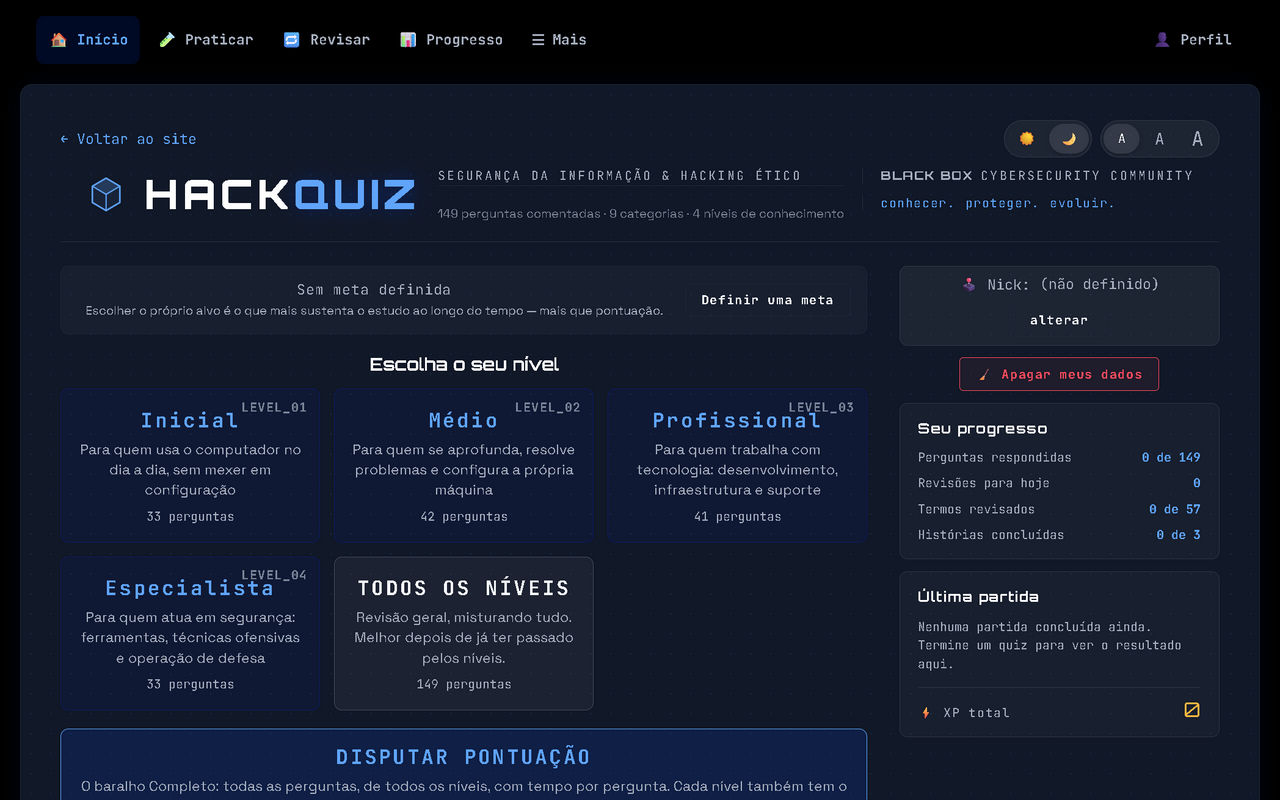
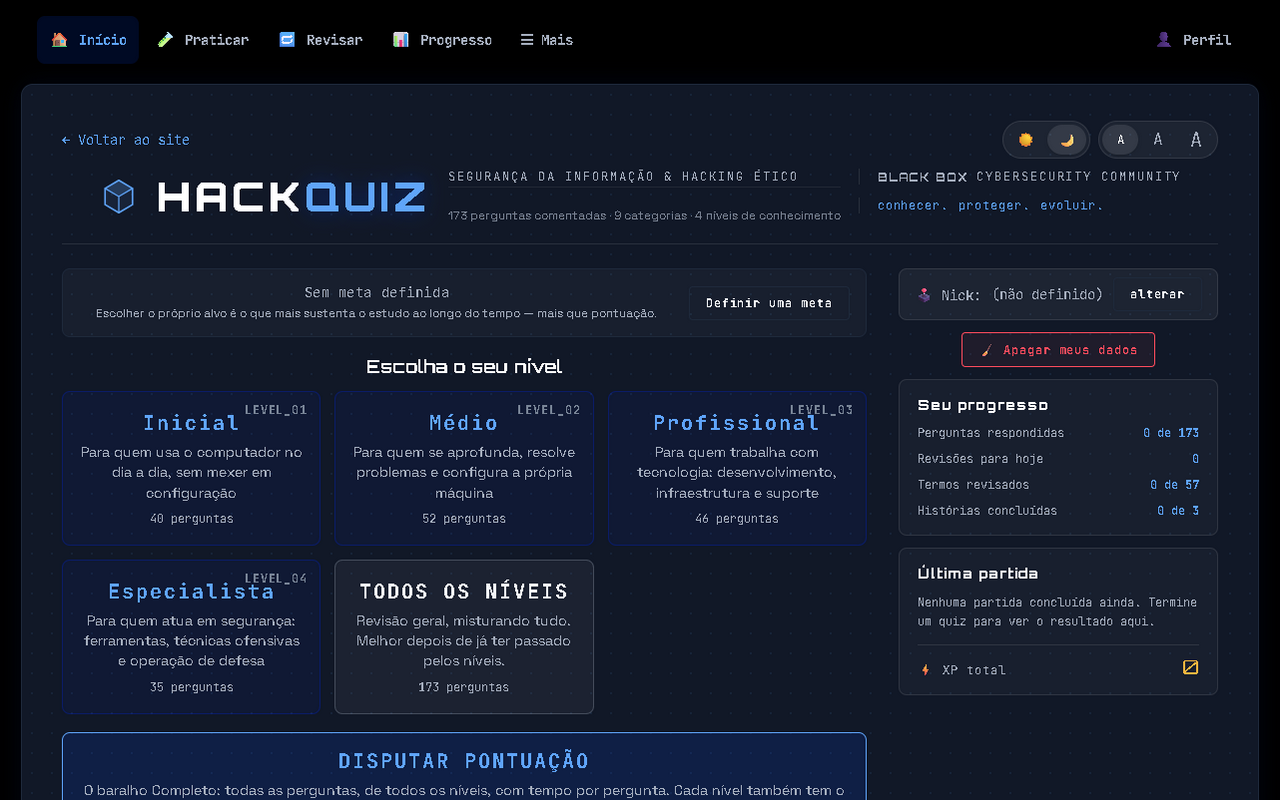
Vitrine: HackQuiz primeiro e com foco em cibersegurança, imagens atualizadas
HackQuiz abre a página, com o que ele ensina e a segurança do próprio
app; depois RPG Espiritual (prints da versão atual) e Sombraluz
(menu e partida capturados do jogo). Runas & Hordas vai para outros
projetos. A imagem antiga do HackQuiz mostrava 149 perguntas.

diff --git a/README.md b/README.md
@@ -1,18 +1,18 @@
 <h1 align="center">Olá, eu sou o O-Azevedo 👋</h1>
 
 <p align="center">
-  <b>Desenvolvedor de jogos e aplicações web</b> · cibersegurança · engenharia assistida por IA<br>
-  <sub>Game & web developer building shipped, tested projects with AI-assisted engineering.</sub>
+  <b>Cibersegurança e desenvolvimento web</b> · jogos · engenharia assistida por IA<br>
+  <sub>Security-minded web & game developer shipping tested, versioned projects with AI-assisted engineering.</sub>
 </p>
 
 <p align="center">
   <img alt="JavaScript" src="https://img.shields.io/badge/JavaScript-F7DF1E?style=flat-square&logo=javascript&logoColor=000">
   <img alt="TypeScript" src="https://img.shields.io/badge/TypeScript-3178C6?style=flat-square&logo=typescript&logoColor=fff">
+  <img alt="Firebase" src="https://img.shields.io/badge/Firebase-DD2C00?style=flat-square&logo=firebase&logoColor=fff">
   <img alt="Next.js" src="https://img.shields.io/badge/Next.js-000?style=flat-square&logo=nextdotjs&logoColor=fff">
   <img alt="Godot" src="https://img.shields.io/badge/Godot_4-478CBF?style=flat-square&logo=godotengine&logoColor=fff">
   <img alt="Unity" src="https://img.shields.io/badge/Unity_6-000?style=flat-square&logo=unity&logoColor=fff">
   <img alt="C#" src="https://img.shields.io/badge/C%23-512BD4?style=flat-square&logo=dotnet&logoColor=fff">
-  <img alt="Firebase" src="https://img.shields.io/badge/Firebase-DD2C00?style=flat-square&logo=firebase&logoColor=fff">
   <img alt="Electron" src="https://img.shields.io/badge/Electron-47848F?style=flat-square&logo=electron&logoColor=fff">
   <img alt="Vercel" src="https://img.shields.io/badge/Vercel-000?style=flat-square&logo=vercel&logoColor=fff">
   <img alt="Claude Code" src="https://img.shields.io/badge/Claude_Code-D97757?style=flat-square&logo=anthropic&logoColor=fff">
@@ -20,73 +20,104 @@
 
 ---
 
-Construo projetos **do começo ao fim**: código, testes, publicação e versão.
-Tudo o que está abaixo roda de verdade, com link para abrir agora, e cada
-lançamento sai com tag, changelog e arquivos com a versão no nome.
+Construo projetos **do começo ao fim**: código, testes, segurança, publicação
+e versão. Tudo o que está abaixo roda de verdade, com link para abrir agora.
 
 > 🔒 Os repositórios são privados. Os projetos estão publicados nos links
 > abaixo, e o código pode ser mostrado sob solicitação, numa entrevista ou
 > avaliação técnica.
 
-## 🚀 Projetos em destaque
+## 🛡 HackQuiz — aprender cibersegurança, em português
 
-### 🛡 HackQuiz — aprender cibersegurança, em português
 **[▶ Abrir o app](https://hackquiz-blackbox.vercel.app)** · HTML/CSS/JS puro · Firebase · Electron · Vercel
 
-<a href="https://hackquiz-blackbox.vercel.app"><img src="img/hackquiz.png" alt="Tela inicial do HackQuiz: os quatro níveis de conhecimento e o painel de progresso" width="100%"></a>
+<a href="https://hackquiz-blackbox.vercel.app"><img src="img/hackquiz.png" alt="Tela inicial do HackQuiz: os quatro níveis de conhecimento, de Inicial a Especialista, e o painel de progresso" width="100%"></a>
 
-Plataforma de estudo com **173 perguntas em 9 matérias**, cada uma com uma
-explicação pesquisada e fontes citadas, mais 30 exercícios práticos (nmap,
-grep, sub-rede, permissões Linux, TLS…) com números gerados para não decorar.
+Plataforma de estudo de segurança da informação: **173 perguntas em 9 matérias**,
+cada uma com uma explicação pesquisada e fontes oficiais citadas, **30 exercícios
+práticos** e um vocabulário de 57 termos.
 
-- **Medição de proficiência** que combina acerto, nível cognitivo e retenção, e decide a ordem do estudo; **repetição espaçada** (Leitner).
-- **Segurança levada a sério:** as regras do Firestore são a única barreira (não há backend), e são testadas com **133 ataques no emulador**; CSP sem `unsafe-inline` e cabeçalhos de segurança na Vercel.
-- **10 suítes de teste** num runner próprio, auditoria de **contraste WCAG AA** e de acessibilidade por teclado, e um auditor que reprova a documentação quando ela diverge do código.
-- Sem build step e sem framework: abre com duplo-clique e funciona offline.
+**O que ele ensina**
+
+| Área | Exemplos |
+|---|---|
+| Red Team e Blue Team | cadeia de ataque, engenharia social, detecção, resposta a incidentes |
+| Redes | sub-rede, ARP, MITM, DoS, Wi-Fi (WPA2, Evil Twin) |
+| Criptografia | hash, assinatura digital, certificados TLS, ponta a ponta |
+| Forense, GRC e Direito Digital | cadeia de custódia, ISO 31000, matriz de risco, LGPD e escopo de pentest |
+| Linux e Windows | `/etc/passwd`, SUID, crontab, `ps`, `ss`, tarefas agendadas |
+
+**Exercícios sobre artefatos reais, não decoreba:** ler a saída do `nmap`, achar
+o IOC num log com `grep`, auditar os `Set-Cookie` de um login, achar a conta com
+UID 0 que não se chama `root`. Os números mudam a cada tentativa, e cada etapa é
+verificada.
+
+<a href="https://hackquiz-blackbox.vercel.app"><img src="img/hackquiz-termo.png" alt="Verbete Phishing aberto: explicação em linguagem comum, o que é, na prática, onde as pessoas se confundem e as fontes da CISA e da FTC" width="100%"></a>
+
+**A segurança do próprio app**
+
+- **Sem backend:** as regras do Firestore são a única barreira, e uma suíte de **133 ataques no emulador** prova os dois lados, com todo ataque negado e todo uso legítimo aceito.
+- Achei e corrigi falhas reais: um **XSS armazenado** e uma **injeção de código por U+2028** num gerador de trechos (o caractere invisível fazia texto da comunidade virar código).
+- **CSP sem `unsafe-inline`**, cabeçalhos anti-clickjacking e HSTS, e a janela desktop que não navega para fora do app.
+
+**Engenharia:** 10 suítes de teste num runner próprio, auditoria de **contraste
+WCAG AA** e de acessibilidade por teclado, CI em todo pull request, e um auditor
+que reprova a documentação quando ela diverge do código.
 
 ---
 
-### 🌀 RPG Espiritual — a vida inteira, e o que vem depois
+## 🌀 RPG Espiritual — a vida inteira, e o que vem depois
+
 **[▶ Jogar no navegador](https://rpg-espiritual.vercel.app)** · Godot 4 · GDScript · instalador para Windows
 
-<a href="https://rpg-espiritual.vercel.app"><img src="img/rpg-mapa.png" alt="RPG Espiritual: personagem na cidade em pixel art, com a ficha de atributos e o diário de acontecimentos" width="100%"></a>
+<a href="https://rpg-espiritual.vercel.app"><img src="img/rpg-cidade.png" alt="RPG Espiritual: o personagem na cidade em pixel art, com a ficha de atributos, o diário de acontecimentos e as abas de ação" width="100%"></a>
 
 RPG 2D em pixel art no estilo BitLife: você vive meio ano por vez, estuda,
 trabalha, forma família e escolhe um caminho espiritual; depois da morte o jogo
 continua no plano espiritual, até reencarnar. Instalador próprio (Inno Setup),
 exportação para web e releases versionadas.
 
----
-
-### ⚔ Sombraluz: Horda Arcana · 🪓 Runas & Hordas
-**[▶ Jogar Sombraluz](https://sombraluz.vercel.app)** · **[▶ Jogar Runas & Hordas](https://runas-e-hordas.vercel.app)** · HTML5 Canvas · Capacitor · Electron
-
-Dois survivor-likes para celular e navegador: você só move o personagem, as
-armas atacam sozinhas, e a cada nível escolhe uma carta. Entre as partidas há
-classes, equipamentos com raridade, missões e loja.
-
-- JavaScript puro, sem engine; o mesmo código vira **site, APK Android e instalador Windows**.
-- Lógica do jogo coberta por testes (26 e 66) e uma **simulação com bot** para testar o balanceamento em velocidade acelerada.
-- Pipeline de release no GitHub Actions: cada tag publica o APK, o `.exe` e o build web.
+<a href="https://rpg-espiritual.vercel.app"><img src="img/rpg-mapa.png" alt="Mapa completo da cidade do RPG Espiritual, com casas, templos, cemitério, praça e praia" width="100%"></a>
 
 ---
 
-### 🔧 Em desenvolvimento
+## ⚔ Sombraluz: Horda Arcana
+
+**[▶ Jogar no navegador](https://sombraluz.vercel.app)** · HTML5 Canvas · JavaScript puro · Capacitor · Electron
+
+<p align="center">
+  <a href="https://sombraluz.vercel.app"><img src="img/sombraluz-menu.png" alt="Sombraluz: menu com o personagem Peregrino, rank, moedas e as abas de jogo" width="38%"></a>
+  &nbsp;&nbsp;
+  <a href="https://sombraluz.vercel.app"><img src="img/sombraluz-jogo.png" alt="Sombraluz: partida aos 1:32, nível 4, 146 abates, o personagem cercado de cristais e inimigos" width="38%"></a>
+</p>
+
+Survivor-like para celular e navegador: você só move o personagem, as armas
+atiram sozinhas, e a cada nível escolhe uma carta. Entre as partidas há classes,
+equipamentos com raridade, missões e loja.
+
+- Sem engine: o mesmo código vira **site, APK Android e instalador Windows**.
+- Lógica coberta por testes e por uma **simulação com bot** que joga em velocidade acelerada para testar o balanceamento.
+- Cada tag publica o APK, o `.exe` e o build web pelo GitHub Actions.
+
+---
+
+## 🔧 Outros projetos
 
 | Projeto | O que é | Stack |
 |---|---|---|
-| **Firewall FPS** *(codinome)* | FPS cooperativo de sobrevivência contra hordas | Unity 6 · C# · FishNet (multiplayer) |
-| **APP Financeiro** *(codinome)* | Plataforma de educação e organização financeira, em PT e EN | Next.js 16 · TypeScript · Prisma · PostgreSQL · Tailwind |
+| **[Runas & Hordas](https://runas-e-hordas.vercel.app)** | Survivor-like de fantasia medieval em pixel art, com 12 armas | HTML5 Canvas · JavaScript · Capacitor |
+| **Firewall FPS** *(em desenvolvimento)* | FPS cooperativo de sobrevivência contra hordas | Unity 6 · C# · FishNet (multiplayer) |
+| **APP Financeiro** *(em desenvolvimento)* | Plataforma de educação e organização financeira, em PT e EN | Next.js 16 · TypeScript · Prisma · PostgreSQL |
 
 ## 🤖 Como eu trabalho: engenharia assistida por IA
 
 Uso IA (**Claude Code**) como parte do processo, não como atalho. O que faz
 isso funcionar é a parte que continua sendo minha: decidir, verificar e manter.
 
-- **Cada projeto tem um guia de decisões** (`CLAUDE.md`) com o *porquê* de cada escolha, para nenhuma mudança desfazer uma decisão sem saber.
-- **Nada entra sem passar pela verificação:** testes automatizados, auditorias de contraste e acessibilidade, testes de ataque às regras de segurança e CI em todo pull request.
-- **Agentes com papéis separados** no HackQuiz: pesquisa de currículo, autoria, revisão que reabre as fontes, e auditoria — quem escreve não aprova o próprio trabalho.
-- **Fluxo de produção:** branch, pull request, CI verde, versão semântica, changelog e release com os arquivos de cada versão.
+- **Cada projeto tem um guia de decisões** com o *porquê* de cada escolha, para nenhuma mudança desfazer uma decisão sem saber.
+- **Nada entra sem verificação:** testes automatizados, auditorias de contraste e acessibilidade, testes de ataque às regras de segurança e CI em todo pull request.
+- **Agentes com papéis separados** no HackQuiz: pesquisa de currículo, autoria, revisão que reabre as fontes e auditoria. Quem escreve não aprova o próprio trabalho.
+- **Fluxo de produção:** branch, pull request, CI verde, versão semântica e release com os arquivos de cada versão.
 
 ## 📫 Contato
 
